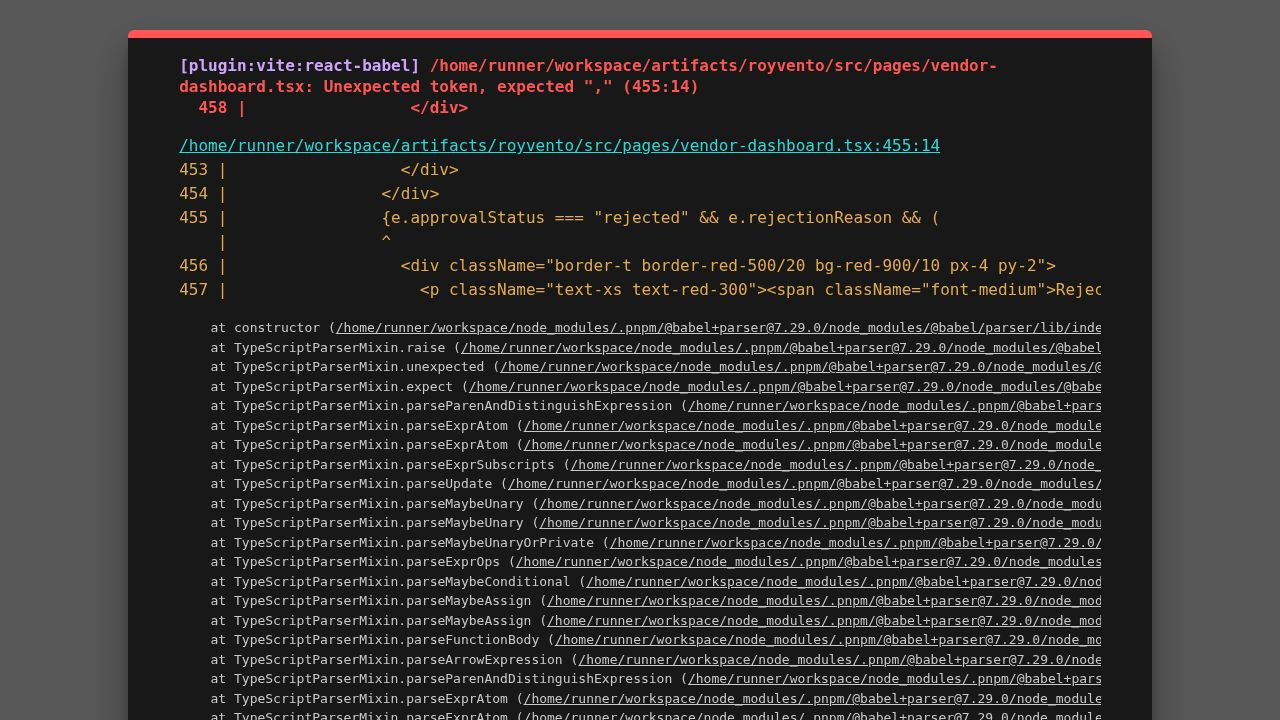
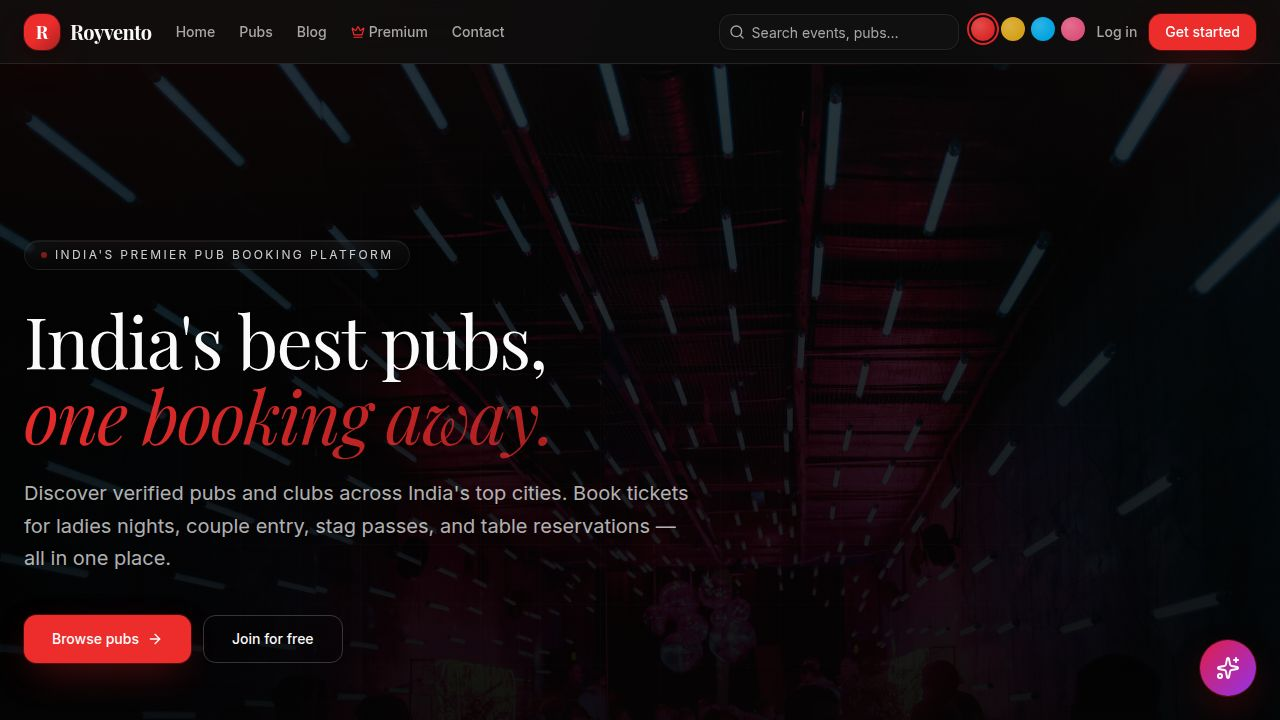
feat: let customers cancel their own confirmed bookings
## Task
Task #23 — Self-service cancellation for confirmed bookings.

## What was done

### Backend — artifacts/api-server/src/routes/bookings.ts
- Added new `PATCH /bookings/:bookingId/cancel` endpoint restricted to
  authenticated users (any role).
- Validates that the booking belongs to the requesting user and is in
  `confirmed` status; returns a 400 error otherwise.
- Requires a `cancellationReason` string in the request body (validated
  with `z.string().trim().min(1)` to reject whitespace-only inputs).
- Sets `status = "cancelled"`, `approvedBy = "customer"`, and
  `rejectionReason` to the provided reason.
- After cancelling, looks up the vendor's user account and:
  - Sends a partner-facing email via `sendCustomerCancelledBookingEmail`.
  - Creates an in-app notification for the vendor.
  - Creates an in-app notification for the customer.

### Backend — artifacts/api-server/src/lib/notifications.ts
- Added `CustomerCancelledNotification` interface and
  `sendCustomerCancelledBookingEmail` function that formats and delivers
  a detailed email to the partner.

### Frontend — artifacts/royvento/src/pages/bookings.tsx
- Added "Cancel booking" button on each confirmed booking card.
- Added `CancelBookingDialog` component: modal asking for a reason, calls
  `PATCH /api/bookings/:id/cancel`, shows toast, and refreshes the list.
- Label changed from "Rejection reason" to "Cancellation reason" for
  customer-cancelled bookings.
[…]

diff --git a/artifacts/royvento/src/pages/bookings.tsx b/artifacts/royvento/src/pages/bookings.tsx
@@ -1,10 +1,20 @@
 import { Link } from "wouter";
-import { useRef } from "react";
+import { useRef, useState } from "react";
 import { useListMyBookings } from "@workspace/api-client-react";
 import { Badge } from "@/components/ui/badge";
 import { Button } from "@/components/ui/button";
+import {
+  Dialog,
+  DialogContent,
+  DialogHeader,
+  DialogTitle,
+  DialogDescription,
+  DialogFooter,
+} from "@/components/ui/dialog";
+import { Textarea } from "@/components/ui/textarea";
+import { useToast } from "@/hooks/use-toast";
 import { Calendar, Users, Tag, Wine, Ticket as TicketIcon, Printer, Download } from "lucide-react";
-import { formatINR, formatINRExact } from "@/lib/api";
+import { formatINR, formatINRExact, apiPatch } from "@/lib/api";
 
 const STATUS_VARIANT: Record<string, "default" | "secondary" | "destructive" | "outline"> = {
   pending: "secondary",
@@ -14,7 +24,7 @@ const STATUS_VARIANT: Record<string, "default" | "secondary" | "destructive" | "
 };
 
 export function Bookings() {
-  const { data: bookings = [], isLoading } = useListMyBookings();
+  const { data: bookings = [], isLoading, refetch } = useListMyBookings();
 
   return (
     <div className="container mx-auto px-4 md:px-6 py-14">
@@ -34,16 +44,18 @@ export function Bookings() {
         </div>
       ) : (
         <div className="space-y-6">
-          {bookings.map((b: any) => <BookingCard key={b.id} b={b} />)}
+          {bookings.map((b: any) => <BookingCard key={b.id} b={b} onRefetch={refetch} />)}
         </div>
       )}
     </div>
   );
 }
 
-function BookingCard({ b }: { b: any }) {
+function BookingCard({ b, onRefetch }: { b: any; onRefetch: () => void }) {
   const isPubTicket = (b.eventType_ === "pub" || b.pubMode === "ticket") && b.pubMode === "ticket";
   const showTicket = isPubTicket && (b.status === "confirmed" || b.status === "completed");
+  const [cancelOpen, setCancelOpen] = useState(false);
+
   return (
     <div className="rounded-2xl glass-card overflow-hidden flex flex-col md:flex-row lift-3d">
       {b.eventImage && (
@@ -94,23 +106,112 @@ function BookingCard({ b }: { b: any }) {
             )}
             {b.status === "cancelled" && b.rejectionReason && (
               <div className="mt-2 rounded-lg border border-red-500/30 bg-red-900/20 px-3 py-2">
-                <p className="text-xs text-red-300 font-medium mb-0.5">Rejection reason</p>
+                <p className="text-xs text-red-300 font-medium mb-0.5">Cancellation reason</p>
                 <p className="text-xs text-red-200">{b.rejectionReason}</p>
               </div>
             )}
           </div>
-          <div className="text-right">
-            <p className="text-xs text-muted-foreground">Total</p>
-            <p className="font-serif text-3xl">{formatINRExact(b.finalPrice ?? b.totalPrice)}</p>
-            {b.finalPrice != null && b.finalPrice !== b.totalPrice && (
-              <p className="text-xs text-muted-foreground line-through">{formatINRExact(b.totalPrice)}</p>
+          <div className="text-right flex flex-col items-end gap-3">
+            <div>
+              <p className="text-xs text-muted-foreground">Total</p>
+              <p className="font-serif text-3xl">{formatINRExact(b.finalPrice ?? b.totalPrice)}</p>
+              {b.finalPrice != null && b.finalPrice !== b.totalPrice && (
+                <p className="text-xs text-muted-foreground line-through">{formatINRExact(b.totalPrice)}</p>
+              )}
+            </div>
+            {b.status === "confirmed" && (
+              <Button
+                size="sm"
+                variant="destructive"
+                onClick={() => setCancelOpen(true)}
+                className="text-xs"
+              >
+                Cancel booking
+              </Button>
             )}
           </div>
         </div>
 
-        {showTicket && <PremiumTicket b={b} />}
+        {showTicket && !cancelOpen && <PremiumTicket b={b} />}
       </div>
+
+      <CancelBookingDialog
+        open={cancelOpen}
+        onClose={() => setCancelOpen(false)}
+        booking={b}
+        onCancelled={onRefetch}
+      />
     </div>
+  );
+}
+
+function CancelBookingDialog({
+  open,
+  onClose,
+  booking,
+  onCancelled,
+}: {
+  open: boolean;
+  onClose: () => void;
+  booking: any;
+  onCancelled: () => void;
+}) {
+  const [reason, setReason] = useState("");
+  const [loading, setLoading] = useState(false);
+  const { toast } = useToast();
+
+  const handleCancel = async () => {
+    if (!reason.trim()) {
+      toast({ title: "Please provide a cancellation reason.", variant: "destructive" });
+      return;
+    }
+    setLoading(true);
+    try {
+      await apiPatch(`/api/bookings/${booking.id}/cancel`, { cancellationReason: reason.trim() });
+      toast({ title: "Booking cancelled", description: "Your booking has been cancelled." });
+      onCancelled();
+      onClose();
+      setReason("");
+    } catch (err: any) {
+      toast({
+        title: "Failed to cancel",
+        description: err?.message ?? "Something went wrong. Please try again.",
+        variant: "destructive",
+      });
+    } finally {
+      setLoading(false);
+    }
+  };
+
+  return (
+    <Dialog open={open} onOpenChange={(v) => { if (!v) onClose(); }}>
+      <DialogContent>
+        <DialogHeader>
+          <DialogTitle>Cancel booking</DialogTitle>
+          <DialogDescription>
+            Are you sure you want to cancel your booking for <strong>{booking.eventTitle}</strong> on {booking.bookingDate}?
+            The partner will be notified. This cannot be undone.
+          </DialogDescription>
+        </DialogHeader>
+        <div className="space-y-2 py-2">
+          <label className="text-sm font-medium">Reason for cancellation</label>
+          <Textarea
+            placeholder="e.g. Plans have changed, wrong date selected…"
+            value={reason}
+            onChange={(e) => setReason(e.target.value)}
+            rows={3}
+          />
+        </div>
+        <DialogFooter>
+          <Button variant="outline" onClick={onClose} disabled={loading}>
+            Keep booking
+          </Button>
+          <Button variant="destructive" onClick={handleCancel} disabled={loading || !reason.trim()}>
+            {loading ? "Cancelling…" : "Confirm cancellation"}
+          </Button>
+        </DialogFooter>
+      </DialogContent>
+    </Dialog>
   );
 }
 

diff --git a/artifacts/api-server/src/routes/bookings.ts b/artifacts/api-server/src/routes/bookings.ts
@@ -17,6 +17,7 @@ import { requireAuth, loadUserFromRequest, isNewUser } from "../lib/auth";
 import {
   sendBookingCreatedEmails,
   sendBookingStatusEmail,
+  sendCustomerCancelledBookingEmail,
 } from "../lib/notifications";
 
 const EVENT_TYPES = [
@@ -672,6 +673,115 @@ router.patch(
         }
       } catch (err) {
         console.error("Failed to create notification:", err);
+      }
+    }
+
+    res.json(out);
+  },
+);
+
+// Customer cancels their own confirmed booking
+const CustomerCancelBody = z.object({
+  cancellationReason: z.string().trim().min(1, "Reason is required"),
+});
+
+router.patch(
+  "/bookings/:bookingId/cancel",
+  requireAuth(),
+  async (req, res) => {
+    const id = Number(req.params["bookingId"]);
+    if (!Number.isFinite(id)) {
+      res.status(400).json({ error: "Invalid id" });
+      return;
+    }
+    const parsed = CustomerCancelBody.safeParse(req.body);
+    if (!parsed.success) {
+      res.status(400).json({ error: "A cancellation reason is required." });
+      return;
+    }
+    const user = await loadUserFromRequest(req);
+    if (!user) {
+      res.status(401).json({ error: "Unauthorized" });
+      return;
+    }
+    const bRows = await db
+      .select()
+      .from(bookingsTable)
+      .where(and(eq(bookingsTable.id, id), eq(bookingsTable.userId, user.id)))
+      .limit(1);
+    const b = bRows[0];
+    if (!b) {
+      res.status(404).json({ error: "Not found" });
+      return;
+    }
+    if (b.status !== "confirmed") {
+      res.status(400).json({ error: "Only confirmed bookings can be cancelled." });
+      return;
+    }
+    const reason = parsed.data.cancellationReason.trim();
+    const [updated] = await db
+      .update(bookingsTable)
+      .set({ status: "cancelled", approvedBy: "customer", rejectionReason: reason })
+      .where(eq(bookingsTable.id, id))
+      .returning();
+    if (!updated) {
+      res.status(500).json({ error: "Failed to cancel booking." });
+      return;
+    }
+
+    const [out] = await serializeBookings([updated]);
+
+    // Notify the vendor/partner
+    if (out) {
+      try {
+        const vRows = await db
+          .select()
+          .from(vendorsTable)
+          .where(eq(vendorsTable.id, b.vendorId))
+          .limit(1);
+        const vendor = vRows[0];
+        if (vendor) {
+          const [vendorUser] = await db
+            .select()
+            .from(usersTable)
+            .where(eq(usersTable.id, vendor.userId))
+            .limit(1);
+          const vendorEmail = vendorUser?.email ?? "";
+          if (vendorEmail) {
+            await sendCustomerCancelledBookingEmail({
+              bookingId: updated.id,
+              eventTitle: out.eventTitle,
+              vendorName: out.vendorName,
+              vendorEmail,
+              userName: out.userName,
+              userEmail: out.userEmail,
+              bookingDate: updated.bookingDate,
+              guests: updated.guests,
+              cancellationReason: reason,
+            });
+          }
+          // In-app notification for the vendor owner
+          if (vendorUser) {
+            await db.insert(notificationsTable).values({
+              userId: vendorUser.id,
+              title: "Booking cancelled by customer",
+              message: `${out.userName} cancelled their booking for "${out.eventTitle}" on ${updated.bookingDate}. Reason: ${reason}`,
+            });
+          }
+        }
+      } catch (err) {
+        console.error("Failed to send partner cancellation notification:", err);
+      }
+
+      // In-app notification for the customer confirming the cancellation
+      try {
+        await db.insert(notificationsTable).values({
+          userId: user.id,
+          title: "Booking cancelled",
+          message: `Your booking for "${out.eventTitle}" has been cancelled as requested.`,
+        });
+      } catch (err) {
+        console.error("Failed to create customer cancellation notification:", err);
       }
     }
 

diff --git a/artifacts/api-server/src/lib/notifications.ts b/artifacts/api-server/src/lib/notifications.ts
@@ -119,6 +119,44 @@ export interface BookingStatusNotification {
   status: string;
 }
 
+export interface CustomerCancelledNotification {
+  bookingId: number;
+  eventTitle: string;
+  vendorName: string;
+  vendorEmail: string;
+  userName: string;
+  userEmail: string;
+  bookingDate: string;
+  guests: number;
+  cancellationReason: string;
+}
+
+export async function sendCustomerCancelledBookingEmail(
+  b: CustomerCancelledNotification,
+): Promise<void> {
+  await deliver("Booking Cancelled by Customer (to partner)", {
+    to: b.vendorEmail,
+    toName: b.vendorName,
+    subject: `Booking #${b.bookingId} cancelled by customer: ${b.eventTitle}`,
+    body: [
+      `Hi ${b.vendorName},`,
+      ``,
+      `A customer has cancelled their booking. Here are the details:`,
+      ``,
+      `  • Event:   ${b.eventTitle}`,
+      `  • Client:  ${b.userName} <${b.userEmail}>`,
+      `  • Date:    ${fmtDate(b.bookingDate)}`,
+      `  • Guests:  ${b.guests}`,
+      ``,
+      `  Cancellation reason: "${b.cancellationReason}"`,
+      ``,
+      `The slot is now available again. Log in to your Royvento partner dashboard to view the full booking history.`,
+      ``,
+      `— Royvento`,
+    ].join("\n"),
+  });
+}
+
 export async function sendBookingStatusEmail(b: BookingStatusNotification): Promise<void> {
   const statusLine: Record<string, string> = {
     confirmed: `Great news — ${b.vendorName} has CONFIRMED your booking.`,

diff --git a/artifacts/royvento/src/pages/vendor-dashboard.tsx b/artifacts/royvento/src/pages/vendor-dashboard.tsx
@@ -860,6 +860,9 @@ function BookingsManager({ bookings, refetch }: { bookings: any[]; refetch: () =
                   <p className="text-sm mt-1">
                     {b.bookingDate} · {b.guests} guests · {formatINR(b.finalPrice ?? b.totalPrice)}
                   </p>
+                  {b.status === "cancelled" && b.approvedBy === "customer" && (
+                    <p className="text-xs text-amber-400 mt-1 font-medium">Cancelled by customer</p>
+                  )}
                   {b.rejectionReason && (
                     <p className="text-xs text-red-400 mt-1">Reason: {b.rejectionReason}</p>
                   )}